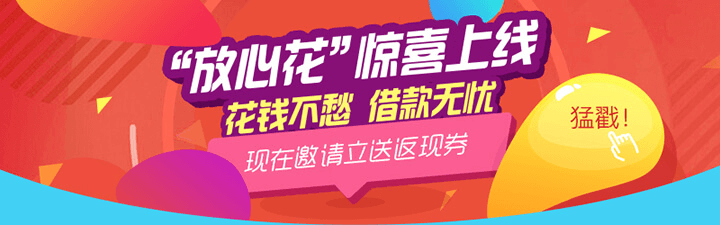
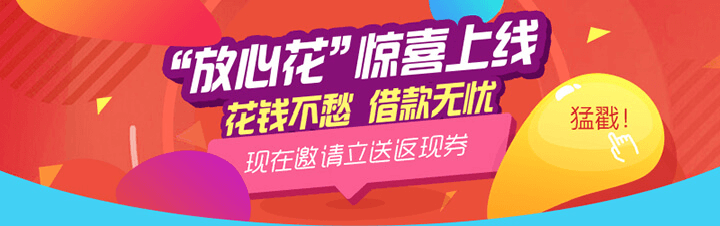
update

diff --git a/apps/loan/home/less/index.less b/apps/loan/home/less/index.less
@@ -22,7 +22,7 @@ img{
 }
 .ad{
   width:720px;
-  height:225px;
+  height:226px;
   background:#42d1f5;
 }
 .ad a{
